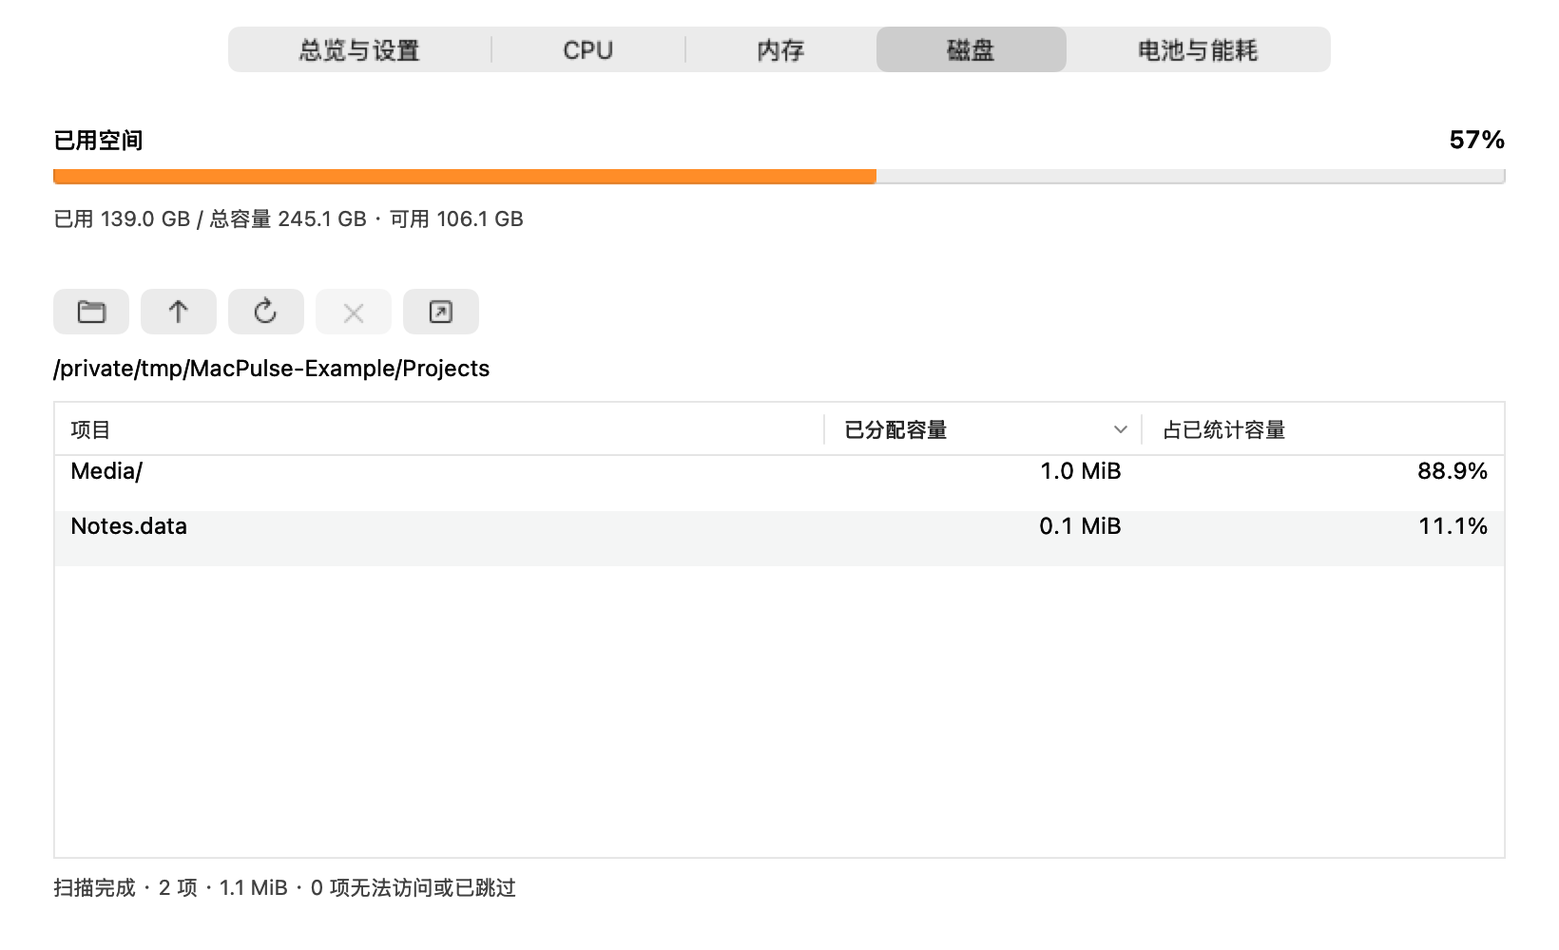
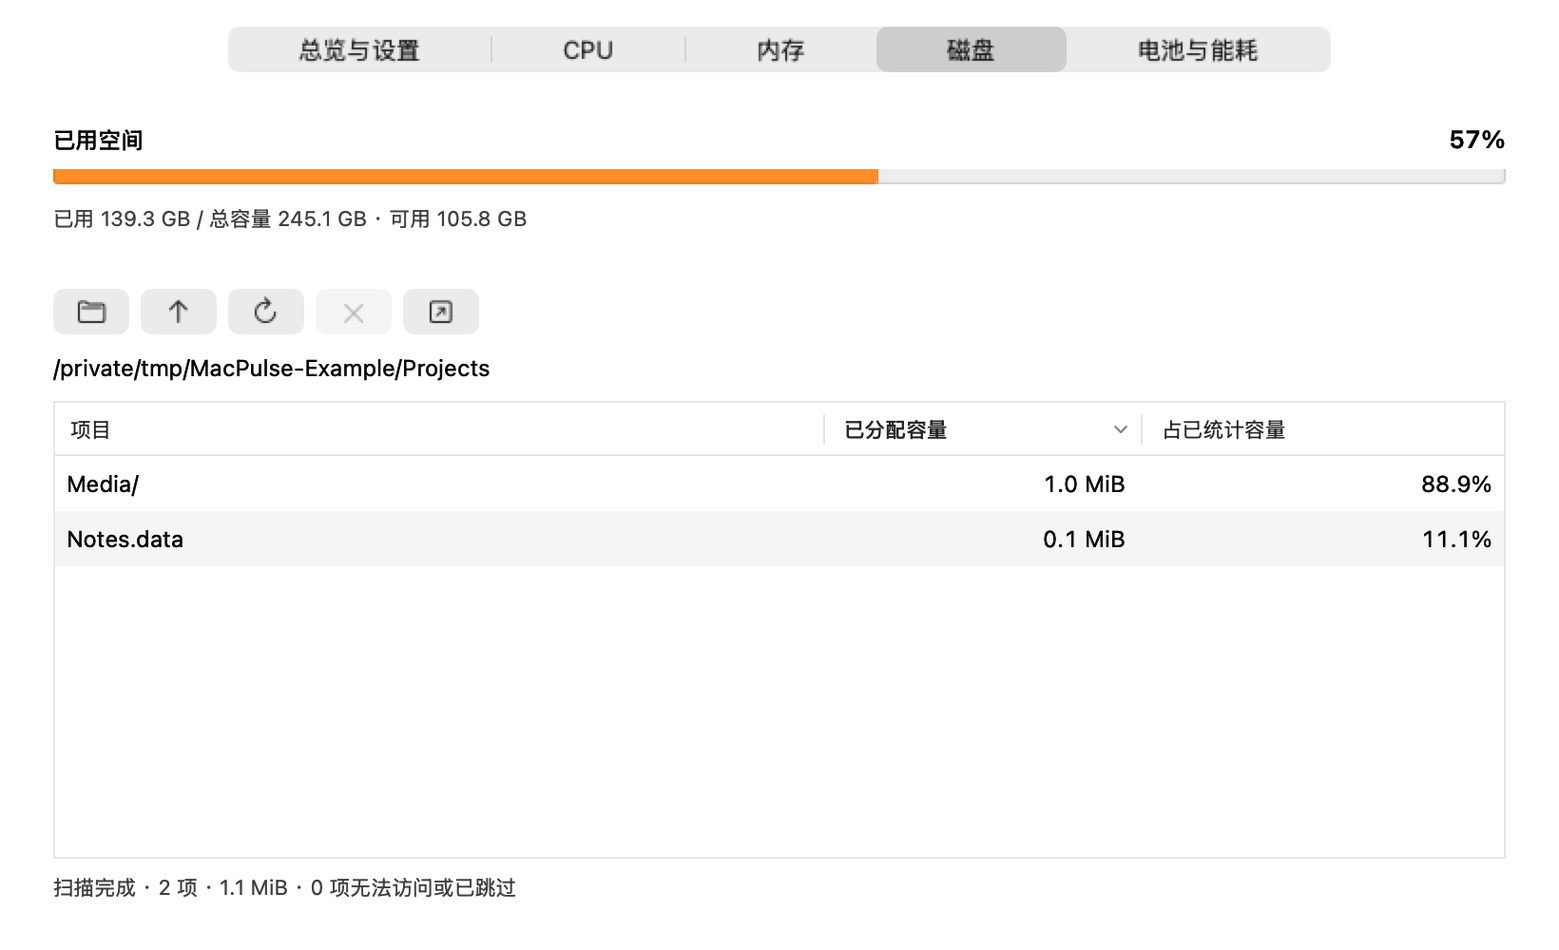
Automatically load disk details and reduce menu redraws

diff --git a/ResourceDetailsView.swift b/ResourceDetailsView.swift
@@ -187,6 +187,20 @@ final class CoreUsageView: NSView {
 
 enum ProcessSort: String { case cpu, memory, energy }
 
+private func centeredTableCell(in table: NSTableView, identifier: NSUserInterfaceItemIdentifier) -> NSTableCellView {
+    if let cell = table.makeView(withIdentifier: identifier, owner: nil) as? NSTableCellView { return cell }
+    let cell = NSTableCellView()
+    cell.identifier = identifier
+    let field = NSTextField(labelWithString: "")
+    field.translatesAutoresizingMaskIntoConstraints = false; field.usesSingleLineMode = true
+    cell.addSubview(field); cell.textField = field
+    NSLayoutConstraint.activate([
+        field.leadingAnchor.constraint(equalTo: cell.leadingAnchor), field.trailingAnchor.constraint(equalTo: cell.trailingAnchor),
+        field.centerYAnchor.constraint(equalTo: cell.centerYAnchor)
+    ])
+    return cell
+}
+
 final class ProcessTableView: NSView, NSTableViewDataSource, NSTableViewDelegate, NSSearchFieldDelegate {
     let table = NSTableView()
     let search = NSSearchField()
@@ -288,13 +302,27 @@ final class ProcessTableView: NSView, NSTableViewDataSource, NSTableViewDelegate
     private var selected: ProcessMetric? { rows.indices.contains(table.selectedRow) ? rows[table.selectedRow] : nil }
     private func reload() {
         let identity = selected?.identity
+        let oldCount = rows.count
         let query = search.stringValue.trimmingCharacters(in: .whitespacesAndNewlines)
         let filtered = (sample?.processes ?? []).filter { query.isEmpty || $0.name.localizedCaseInsensitiveContains(query) || String($0.identity.pid).contains(query) }
         let descriptor = table.sortDescriptors.first
         rows = Self.sorted(filtered, key: descriptor?.key ?? mode.rawValue, ascending: descriptor?.ascending ?? false)
-        table.reloadData()
-        if let identity, let row = rows.firstIndex(where: { $0.identity == identity }) { table.selectRowIndexes(IndexSet(integer: row), byExtendingSelection: false) }
-        else { table.deselectAll(nil) }
+        if oldCount != rows.count { table.reloadData() }
+        else {
+            // Reuse the visible cells while live values and sort order change.
+            table.enumerateAvailableRowViews { _, row in
+                guard self.rows.indices.contains(row) else { return }
+                for column in self.table.tableColumns.indices {
+                    if let cell = self.table.view(atColumn: column, row: row, makeIfNecessary: false) as? NSTableCellView,
+                       let field = cell.textField {
+                        self.populate(field, id: self.table.tableColumns[column].identifier, value: self.rows[row])
+                    }
+                }
+            }
+        }
+        if let identity, let row = rows.firstIndex(where: { $0.identity == identity }) {
+            if row != table.selectedRow { table.selectRowIndexes(IndexSet(integer: row), byExtendingSelection: false) }
+        } else if table.selectedRow >= 0 { table.deselectAll(nil) }
         updateSelection()
     }
     private func updateSelection() {
@@ -310,25 +338,15 @@ final class ProcessTableView: NSView, NSTableViewDataSource, NSTableViewDelegate
     func tableViewSelectionDidChange(_ notification: Notification) { updateSelection() }
     func tableView(_ tableView: NSTableView, viewFor tableColumn: NSTableColumn?, row: Int) -> NSView? {
         guard rows.indices.contains(row), let id = tableColumn?.identifier else { return nil }
-        let value = rows[row]
-        let cell = (table.makeView(withIdentifier: id, owner: self) as? NSTableCellView) ?? NSTableCellView()
-        cell.identifier = id
-        if cell.textField == nil {
-            let field = NSTextField(labelWithString: "")
-            field.translatesAutoresizingMaskIntoConstraints = false
-            field.lineBreakMode = .byTruncatingTail
-            field.usesSingleLineMode = true
-            cell.addSubview(field)
-            cell.textField = field
-            NSLayoutConstraint.activate([
-                field.leadingAnchor.constraint(equalTo: cell.leadingAnchor),
-                field.trailingAnchor.constraint(equalTo: cell.trailingAnchor),
-                field.centerYAnchor.constraint(equalTo: cell.centerYAnchor)
-            ])
-        }
+        let cell = centeredTableCell(in: table, identifier: id)
         let field = cell.textField!
+        field.lineBreakMode = .byTruncatingTail
         field.font = id.rawValue == "name" ? .systemFont(ofSize: 12) : .monospacedDigitSystemFont(ofSize: 12, weight: .regular)
         field.alignment = id.rawValue == "name" ? .left : .right
+        populate(field, id: id, value: rows[row])
+        return cell
+    }
+    private func populate(_ field: NSTextField, id: NSUserInterfaceItemIdentifier, value: ProcessMetric) {
         switch id.rawValue {
         case "name": field.stringValue = value.name
         case "pid": field.stringValue = String(value.identity.pid)
@@ -340,7 +358,6 @@ final class ProcessTableView: NSView, NSTableViewDataSource, NSTableViewDelegate
         default: break
         }
         field.toolTip = id.rawValue == "name" ? value.path : field.stringValue
-        return cell
     }
     @objc private func requestQuit() { confirmTermination(force: false) }
     @objc private func requestForceQuit() { confirmTermination(force: true) }
@@ -372,12 +389,15 @@ final class DiskUsageView: NSView, NSTableViewDataSource, NSTableViewDelegate {
     private(set) var rows: [DiskUsageItem] = []
     private var cancellation: DiskScanCancellation?
     private var generation = UUID()
+    private var automaticScanTimer: Timer?
+    private var completedAt: Date?
     private let queue = DispatchQueue(label: "local.macpulse.disk-scan", qos: .utility)
     var onChooseFolder: (() -> Void)?
     private let compact: Bool
 
-    init(compact: Bool = false) {
+    init(compact: Bool = false, root: URL = FileManager.default.homeDirectoryForCurrentUser) {
         self.compact = compact
+        self.root = root
         super.init(frame: .zero)
         let choose = toolButton("folder", "选择扫描目录", target: self, action: #selector(chooseFolder))
         let up = toolButton("arrow.up", "扫描上级目录", target: self, action: #selector(goUp))
@@ -419,12 +439,27 @@ final class DiskUsageView: NSView, NSTableViewDataSource, NSTableViewDelegate {
         let available = scroll.contentSize.width - table.intercellSpacing.width * 3 - 2
         for (column, width) in zip(table.tableColumns, [max(140, available - 240), 120, 120]) where abs(column.width - width) > 0.5 { column.width = width }
     }
-    deinit { cancellation?.cancel() }
+    deinit { automaticScanTimer?.invalidate(); cancellation?.cancel() }
+    func requestAutomaticScan() {
+        automaticScanTimer?.invalidate()
+        guard cancellation == nil, completedAt.map({ Date().timeIntervalSince($0) < 60 }) != true else { return }
+        let timer = Timer(timeInterval: 0.2, repeats: false) { [weak self] _ in
+            guard let self else { return }
+            self.automaticScanTimer = nil
+            guard self.window?.isVisible == true, !self.isHiddenOrHasHiddenAncestor, self.cancellation == nil else { return }
+            self.scan(self.root)
+        }
+        automaticScanTimer = timer
+        RunLoop.main.add(timer, forMode: .common); RunLoop.main.add(timer, forMode: .eventTracking)
+    }
+    func cancelPendingAutomaticScan() { automaticScanTimer?.invalidate(); automaticScanTimer = nil }
     func scan(_ directory: URL) {
+        cancelPendingAutomaticScan()
         cancellation?.cancel()
         let cancellation = DiskScanCancellation(), token = UUID()
-        self.cancellation = cancellation; generation = token; root = directory; result = nil; rows = []
-        table.reloadData(); pathLabel.stringValue = directory.path; pathLabel.toolTip = directory.path
+        self.cancellation = cancellation; generation = token; completedAt = nil
+        if root != directory { result = nil; rows = []; table.reloadData() }
+        root = directory; pathLabel.stringValue = directory.path; pathLabel.toolTip = directory.path
         status.stringValue = "扫描中…"; scanButton.isEnabled = false; cancelButton.isEnabled = true
         queue.async { [weak self] in
             let result = DiskUsageScanner.scan(root: directory, cancellation: cancellation) { progress in
@@ -449,9 +484,12 @@ final class DiskUsageView: NSView, NSTableViewDataSource, NSTableViewDelegate {
         let state = result.cancelled ? "已取消，结果不完整" : (result.finished ? "扫描完成" : "扫描中…")
         status.stringValue = "\(state) · \(result.visited) 项 · \(memorySize(Double(result.total))) · \(result.skipped) 项无法访问或已跳过"
         scanButton.isEnabled = result.finished; cancelButton.isEnabled = !result.finished
-        if result.finished { cancellation = nil }
+        if result.finished {
+            cancellation = nil
+            completedAt = result.cancelled ? nil : (completedAt ?? Date())
+        }
     }
-    func cancel() { cancellation?.cancel() }
+    func cancel() { cancelPendingAutomaticScan(); cancellation?.cancel() }
     @objc private func scanCurrent() { scan(root) }
     @objc private func cancelScan() { cancel() }
     @objc private func goUp() { scan(root.deletingLastPathComponent()) }
@@ -472,15 +510,16 @@ final class DiskUsageView: NSView, NSTableViewDataSource, NSTableViewDelegate {
     func tableView(_ tableView: NSTableView, sortDescriptorsDidChange oldDescriptors: [NSSortDescriptor]) { if let result { update(result) } }
     func tableView(_ tableView: NSTableView, viewFor tableColumn: NSTableColumn?, row: Int) -> NSView? {
         guard rows.indices.contains(row), let id = tableColumn?.identifier else { return nil }
-        let field = (table.makeView(withIdentifier: id, owner: self) as? NSTextField) ?? NSTextField(labelWithString: "")
-        field.identifier = id; field.font = .monospacedDigitSystemFont(ofSize: 12, weight: .regular)
+        let cell = centeredTableCell(in: table, identifier: id)
+        let field = cell.textField!
+        field.font = id.rawValue == "name" ? .systemFont(ofSize: 12) : .monospacedDigitSystemFont(ofSize: 12, weight: .regular)
         field.lineBreakMode = .byTruncatingMiddle; field.alignment = id.rawValue == "name" ? .left : .right
         let item = rows[row]
         if id.rawValue == "name" { field.stringValue = item.url.lastPathComponent + (item.isDirectory ? "/" : "") }
         else if id.rawValue == "bytes" { field.stringValue = memorySize(Double(item.bytes)) }
         else { field.stringValue = (result?.total ?? 0) > 0 ? String(format: "%.1f%%", Double(item.bytes) / Double(result!.total) * 100) : "--" }
         field.toolTip = item.url.path
-        return field
+        return cell
     }
 }
 
@@ -528,7 +567,15 @@ final class ResourceDashboardView: NSView, NSTabViewDelegate {
     required init?(coder: NSCoder) { fatalError() }
     @objc private func selectPage() { tabs.selectTabViewItem(at: navigation.selectedSegment) }
     func tabView(_ tabView: NSTabView, didSelect tabViewItem: NSTabViewItem?) {
-        if let tabViewItem { navigation.selectedSegment = tabView.indexOfTabViewItem(tabViewItem) }
+        if let tabViewItem {
+            navigation.selectedSegment = tabView.indexOfTabViewItem(tabViewItem)
+            prepareVisiblePage()
+        }
+    }
+    func prepareVisiblePage() {
+        updateVisibleProcesses()
+        if navigation.selectedSegment == 3 { disk.requestAutomaticScan() }
+        else { disk.cancelPendingAutomaticScan() }
     }
     private func addTab(_ label: String, view: NSView) {
         let tab = NSTabViewItem(identifier: label); tab.label = label; tab.view = view; tabs.addTabViewItem(tab)
@@ -543,8 +590,17 @@ final class ResourceDashboardView: NSView, NSTabViewDelegate {
     func updateDetails(_ details: DetailedSnapshot) {
         self.details = details
         configuration.metricsView.updateDetails(details)
-        cpuTable.update(details); memoryTable.update(details); energyTable.update(details)
+        updateVisibleProcesses()
         updateSummaries()
+    }
+    private func updateVisibleProcesses() {
+        guard let details else { return }
+        switch navigation.selectedSegment {
+        case 1: cpuTable.update(details)
+        case 2: memoryTable.update(details)
+        case 4: energyTable.update(details)
+        default: break
+        }
     }
     private func updateSummaries() {
         cpuSummary.stringValue = "CPU 总利用率 \(MenuBarText.percent(sample?.cpu))"

diff --git a/DetailedMetrics.swift b/DetailedMetrics.swift
@@ -56,6 +56,7 @@ struct BatteryMetric {
     let external: Bool
     let minutesRemaining: Int?
     let health: String?
+    var charged: Bool = false
 
     static func decode(_ info: [String: Any]) -> BatteryMetric? {
         guard info[kIOPSTypeKey] as? String == kIOPSInternalBatteryType,
@@ -71,7 +72,8 @@ struct BatteryMetric {
         let minutes = (info[charging ? kIOPSTimeToFullChargeKey : kIOPSTimeToEmptyKey] as? NSNumber)?.intValue
         let health = info[kIOPSBatteryHealthKey] as? String
         return BatteryMetric(percent: percent, charging: charging, external: external,
-            minutesRemaining: (charging || !external) && (minutes ?? 0) > 0 ? minutes : nil, health: health)
+            minutesRemaining: (charging || !external) && (minutes ?? 0) > 0 ? minutes : nil, health: health,
+            charged: (info[kIOPSIsChargedKey] as? NSNumber)?.boolValue ?? false)
     }
 
     static func read() -> BatteryMetric? {
@@ -89,12 +91,23 @@ struct BatteryMetric {
     }
 
     var statusSummary: String {
-        var parts = [charging ? "正在充电" : (external ? "外接电源" : "电池供电")]
-        if let minutesRemaining { parts.append("\(charging ? "充满约需" : "预计剩余") \(minutesRemaining / 60) 小时 \(minutesRemaining % 60) 分钟") }
+        var parts = [powerSummary]
         if let health {
             let labels = ["Good": "正常", "Fair": "一般", "Poor": "较差", "Check Battery": "建议检修"]
             parts.append("健康状态：\(labels[health] ?? health)")
         }
+        return parts.joined(separator: " · ")
+    }
+
+    var stateLabel: String {
+        if charging { return "正在充电" }
+        if external { return charged ? "已充满 · 外接电源" : "外接电源 · 未充电" }
+        return "电池供电"
+    }
+
+    var powerSummary: String {
+        var parts = [stateLabel]
+        if let minutesRemaining { parts.append("\(charging ? "充满约需" : "预计剩余") \(minutesRemaining / 60) 小时 \(minutesRemaining % 60) 分钟") }
         return parts.joined(separator: " · ")
     }
 }

diff --git a/StatusDetailView.swift b/StatusDetailView.swift
@@ -29,7 +29,7 @@ enum StatusDetail: String, CaseIterable {
 final class StatusDetailView: NSView {
     let kind: StatusDetail
     let cores = CoreUsageView()
-    let disk = DiskUsageView(compact: true)
+    lazy var disk = DiskUsageView(compact: true)
     private(set) var processes: ProcessTableView?
     private let title = NSTextField(labelWithString: "")
     private let summary = NSTextField(wrappingLabelWithString: "等待采样")
@@ -88,22 +88,25 @@ final class StatusDetailView: NSView {
 
     override func viewDidMoveToWindow() {
         super.viewDidMoveToWindow()
-        if window != nil { refresh() }
+        if window != nil {
+            refresh(reloadProcesses: true)
+            if kind == .disk { disk.requestAutomaticScan() }
+        } else if kind == .disk { disk.cancelPendingAutomaticScan() }
     }
-    func update(_ snapshot: MetricsSnapshot) { self.snapshot = snapshot; refresh() }
+    func update(_ snapshot: MetricsSnapshot) { self.snapshot = snapshot; refresh(reloadProcesses: false) }
     func updateDetails(_ details: DetailedSnapshot?) {
         self.details = details
         if details == nil { processes?.clear() }
         if kind == .cpu { cores.update(details?.cores ?? Array(repeating: nil, count: ProcessInfo.processInfo.processorCount)) }
-        refresh()
+        refresh(reloadProcesses: true)
     }
-    private func refresh() {
+    private func refresh(reloadProcesses: Bool) {
         if kind == .cpu {
             title.stringValue = "CPU · \(ProcessInfo.processInfo.processorCount) 个逻辑核心"
             summary.stringValue = "总利用率 \(MenuBarText.percent(snapshot?.cpu))"
         }
         metricSummary?.update(snapshot, details: details)
-        if window != nil, let details { processes?.update(details) }
+        if reloadProcesses, window != nil, let details { processes?.update(details) }
     }
     @objc private func openMonitor() { onOpenMonitor?(kind.page) }
 }

diff --git a/NativeHost.swift b/NativeHost.swift
@@ -111,7 +111,7 @@ final class NativeHostDelegate: NSObject, NSApplicationDelegate, NSWindowDelegat
     }
     func menuDidClose(_ menu: NSMenu) {
         statusMenuIsOpen = false
-        statusMenuView.disk.cancel()
+        statusMenuView.disk.cancelPendingAutomaticScan()
         updateStatusItem()
         updateDetailedSampling()
     }
@@ -190,6 +190,7 @@ final class NativeHostDelegate: NSObject, NSApplicationDelegate, NSWindowDelegat
         window?.makeKeyAndOrderFront(nil)
         NSApp.activate(ignoringOtherApps: true)
         resourceWindowNeedsSampling = true
+        dashboard?.prepareVisiblePage()
         updateDetailedSampling()
     }
 
@@ -210,12 +211,12 @@ final class NativeHostDelegate: NSObject, NSApplicationDelegate, NSWindowDelegat
     func windowWillClose(_ notification: Notification) {
         resourceWindowNeedsSampling = false
         updateDetailedSampling()
-        dashboard?.disk.cancel()
+        dashboard?.disk.cancelPendingAutomaticScan()
         if preferences.menuBarEnabled { NSApp.setActivationPolicy(.accessory) }
     }
 
     func windowDidMiniaturize(_ notification: Notification) { resourceWindowNeedsSampling = false; updateDetailedSampling() }
-    func windowDidDeminiaturize(_ notification: Notification) { resourceWindowNeedsSampling = true; updateDetailedSampling() }
+    func windowDidDeminiaturize(_ notification: Notification) { resourceWindowNeedsSampling = true; dashboard?.prepareVisiblePage(); updateDetailedSampling() }
 
     func applicationShouldTerminateAfterLastWindowClosed(_ sender: NSApplication) -> Bool {
         !preferences.menuBarEnabled

diff --git a/MenuBarMonitor.swift b/MenuBarMonitor.swift
@@ -169,11 +169,7 @@ final class MenuBarContentView: NSView {
             battery.update(value: "无电池", detail: "无内置电池 · 外接电源")
             return
         }
-        var status = metric.charging ? "正在充电" : (metric.external ? "外接电源" : "电池供电")
-        if let minutes = metric.minutesRemaining {
-            status += " · \(metric.charging ? "充满约需" : "预计剩余") \(minutes / 60) 小时 \(minutes % 60) 分钟"
-        }
-        battery.update(value: MenuBarText.percent(metric.percent), detail: status, reading: metric.percent, color: (metric.percent ?? 100) <= 20 ? .systemRed : .systemTeal)
+        battery.update(value: MenuBarText.percent(metric.percent), detail: metric.powerSummary, reading: metric.percent, color: (metric.percent ?? 100) <= 20 ? .systemRed : .systemTeal)
     }
 
     func update(_ snapshot: MetricsSnapshot) {

diff --git a/StatusMenuView.swift b/StatusMenuView.swift
@@ -97,7 +97,7 @@ final class StatusMenuController {
                 detail = "供电侧估算"
             case .battery:
                 value = details?.battery.map { MenuBarText.percent($0.percent) } ?? (details == nil ? "--" : "无电池")
-                detail = details == nil ? "正在读取电池信息" : (details?.battery.map { $0.charging ? "正在充电" : ($0.external ? "外接电源" : "电池供电") } ?? "无内置电池 · 外接电源")
+                detail = details == nil ? "正在读取电池信息" : (details?.battery?.stateLabel ?? "无内置电池 · 外接电源")
             }
             let paragraph = NSMutableParagraphStyle()
             paragraph.tabStops = [NSTextTab(textAlignment: .right, location: 285)]

diff --git a/README.md b/README.md
@@ -29,7 +29,7 @@
 | 总览与设置 | 左侧集中显示 CPU、内存、磁盘、功率与电池状态，右侧为菜单栏、自启设置和系统工具 |
 | CPU | 总体利用率，默认按 CPU 占用从高到低排列的进程 |
 | 内存 | 总内存比例、应用/固定/压缩内存、交换空间、内存压力，按内存用量降序的进程及占比 |
-| 磁盘 | 手动选择目录扫描，按已分配容量降序查看子项目及占比，可进入子目录、取消扫描或在 Finder 中定位 |
+| 磁盘 | 打开后自动扫描当前目录，按已分配容量降序查看子项目及占比，可选择其他目录、进入子目录、取消扫描或在 Finder 中定位 |
 | 电池与能耗 | 电池电量、供电与充电状态、系统可提供的预计剩余时间和健康状态，按 CPU 能耗估算降序排列进程 |
 
 资源窗口不显示各核心 CPU 图表；核心数量与各核心占用保留在菜单栏的 CPU 子菜单中。窗口采用紧凑布局，支持调整大小。
@@ -40,7 +40,7 @@
 
 选择可操作的进程后，点击退出或强制退出按钮，再确认操作。普通退出会向应用请求退出或发送终止信号；强制退出可能丢失未保存内容。操作前重新核对进程身份，保护系统进程、其他用户进程和监视程序自身。应用不会自动结束进程或删除文件。
 
-磁盘扫描按需执行，不会每秒扫描整个磁盘；关闭窗口会取消正在进行的扫描。
+首次打开磁盘详情会在后台自动扫描用户主目录，之后扫描当前选定的目录。完成结果缓存 60 秒，缓存过期后再次打开详情会自动重新扫描，也可点击刷新立即扫描。短暂经过磁盘菜单不会立刻扫描；扫描期间可查看已统计的结果。收起菜单或关闭窗口后，只要应用仍在运行，已经开始的扫描会继续；退出应用会取消扫描。目录扫描不按每秒执行。
 
 ## 菜单栏与自动启动
 
@@ -52,12 +52,12 @@
 | --- | --- |
 | CPU | 逻辑核心数量、各核心百分比、CPU 进程排名 |
 | 内存 | 总体比例、应用/固定/压缩内存、交换空间、各进程内存和占比排名 |
-| 磁盘 | 总容量、已用/可用容量，以及按需扫描的目录容量与占比 |
+| 磁盘 | 总容量、已用/可用容量，以及自动扫描的目录容量与占比 |
 | 功率 / 电池 | 电量、充电/供电状态、系统提供的预计时间与健康信息、供电功率和进程 CPU 能耗排名 |
 
-子菜单中的进程表支持搜索、排序和滚动。需要退出进程时，点击底部“资源监视”会直接打开对应页面，再选择进程并确认退出。磁盘子菜单可扫描当前目录、进入子目录、取消或定位文件；选择其他目录时会打开系统目录选择器，选定后开始扫描，再次展开磁盘子菜单查看结果。收起主菜单会取消菜单中正在进行的扫描。
+子菜单中的进程表支持搜索、排序和滚动。需要退出进程时，点击底部“资源监视”会直接打开对应页面，再选择进程并确认退出。磁盘子菜单可扫描当前目录、进入子目录、取消或定位文件；选择其他目录时会打开系统目录选择器，选定后开始扫描，再次展开磁盘子菜单查看结果。
 
-无内置电池的 Mac 会明确显示“无电池”。菜单不包含“刷新小组件”和“查看小组件状态”入口，资源窗口也不显示手动刷新小组件按钮。
+MacBook 电池状态区分“电池供电”“正在充电”“已充满”和“外接电源 · 未充电”；系统未提供预计时间时不显示时间。无内置电池的 Mac 会明确显示“无电池”。菜单不包含“刷新小组件”和“查看小组件状态”入口，资源窗口也不显示手动刷新小组件按钮。
 
 菜单栏和登录启动默认关闭，由用户自行选择。未启用菜单栏时，关闭资源窗口即退出应用；启用后，关闭窗口保留菜单栏监控。资源窗口关闭或最小化且菜单收起时停止详细采样；再次打开窗口或展开菜单后恢复。
 
